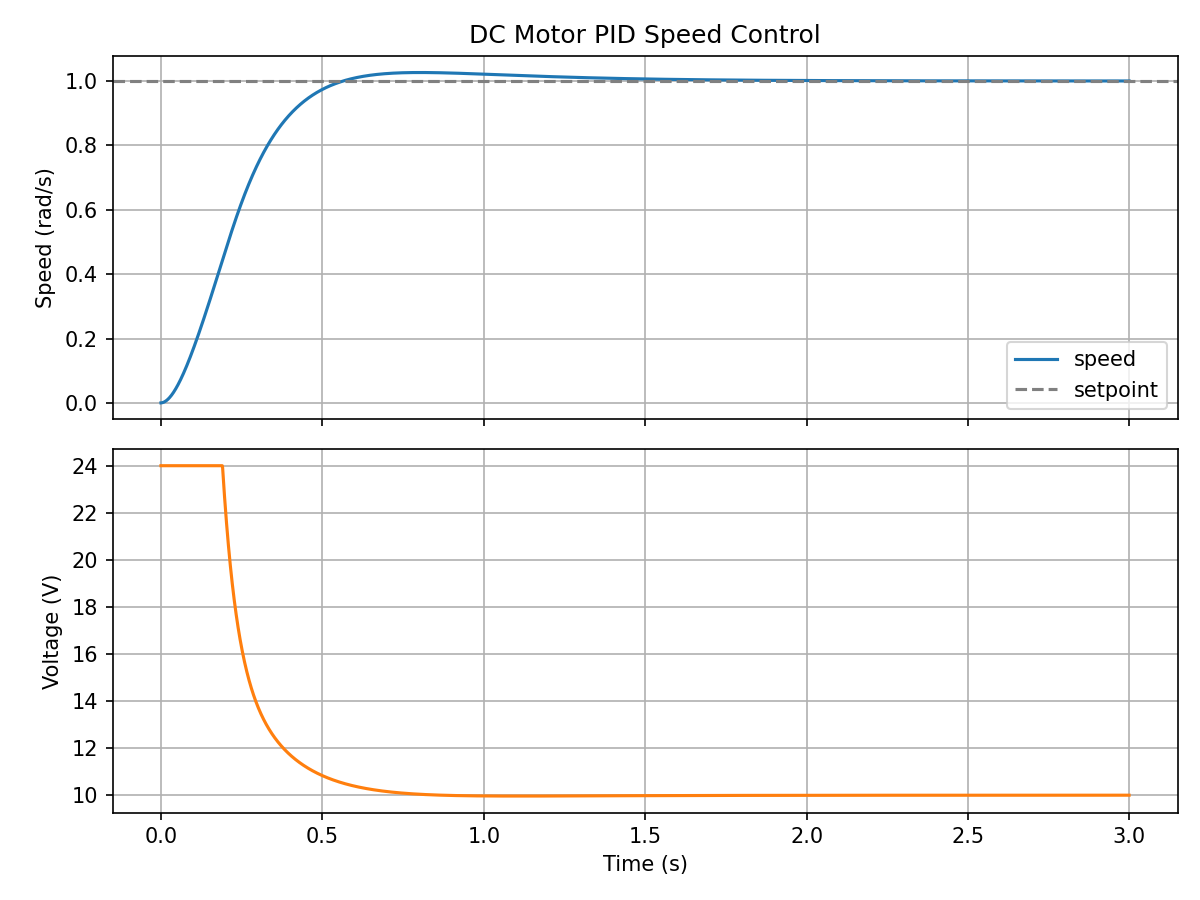
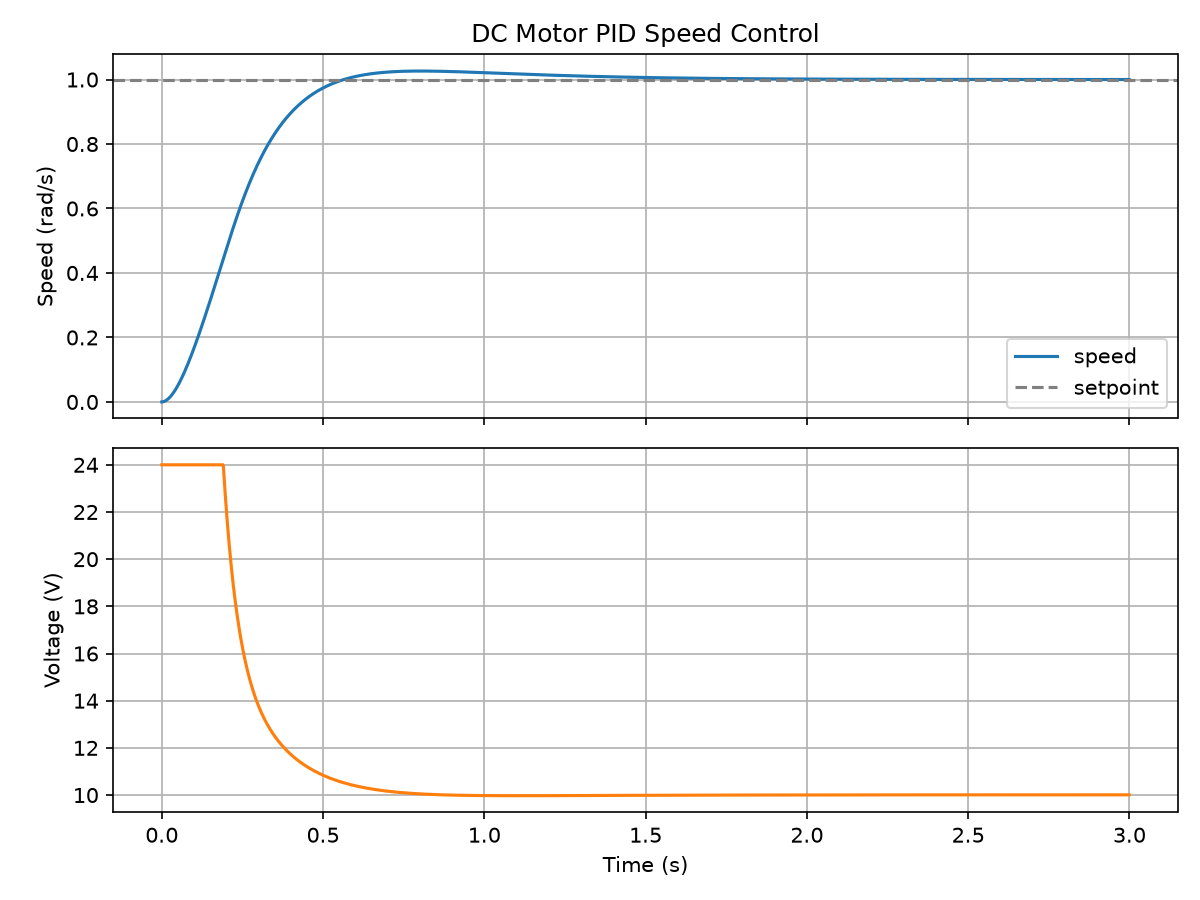
Add LQR controller with integral action and PID comparison

diff --git a/sim_compare.py b/sim_compare.py
@@ -1,0 +1,71 @@
+"""Compare PID and LQR speed control on the same motor."""
+import numpy as np
+import matplotlib.pyplot as plt
+
+from src.motor_model import MotorParams, state_space
+from src.pid import PID
+from src.lqr import LQR, augment_with_integrator, lqr_gain
+from sim_pid import rk4_step, DT, T_END, SETPOINT
+
+
+def run(controller, p, uses_full_state):
+    t = np.arange(0, T_END, DT)
+    x = np.zeros(2)
+    w_log, u_log = [], []
+    for _ in t:
+        if uses_full_state:
+            u = controller.update(SETPOINT, x)
+        else:
+            u = controller.update(SETPOINT, x[0])
+        x = rk4_step(x, u, p, DT)
+        w_log.append(x[0])
+        u_log.append(u)
+    return t, np.array(w_log), np.array(u_log)
+
+
+def metrics(t, w):
+    rise = t[np.argmax(w >= 0.9 * SETPOINT)]
+    overshoot = max(0.0, (w.max() - SETPOINT) / SETPOINT * 100)
+    return rise, overshoot
+
+
+def main():
+    p = MotorParams()
+
+    pid = PID(kp=100, ki=200, kd=10, dt=DT, u_min=-p.V_max, u_max=p.V_max)
+
+    A, B, C = state_space(p)
+    A_aug, B_aug = augment_with_integrator(A, B, C)
+    Q = np.diag([1.0, 0.0, 1.0])   # [speed, current, integral error]
+    R = np.array([[1.0]])          # cost on voltage
+    K = lqr_gain(A_aug, B_aug, Q, R)
+    lqr = LQR(K, DT, -p.V_max, p.V_max)
+
+    t, w_pid, u_pid = run(pid, p, uses_full_state=False)
+    _, w_lqr, u_lqr = run(lqr, p, uses_full_state=True)
+
+    for name, w in [("PID", w_pid), ("LQR", w_lqr)]:
+        rise, os_ = metrics(t, w)
+        print(f"{name}: rise time {rise:.3f} s, overshoot {os_:.1f}%")
+
+    fig, (ax1, ax2) = plt.subplots(2, 1, sharex=True, figsize=(8, 6))
+    ax1.plot(t, w_pid, label="PID")
+    ax1.plot(t, w_lqr, label="LQR")
+    ax1.axhline(SETPOINT, ls="--", c="gray", label="setpoint")
+    ax1.set_ylabel("Speed (rad/s)")
+    ax1.set_title("PID vs. LQR Speed Control")
+    ax1.legend()
+    ax1.grid(True)
+    ax2.plot(t, u_pid, label="PID")
+    ax2.plot(t, u_lqr, label="LQR")
+    ax2.set_ylabel("Voltage (V)")
+    ax2.set_xlabel("Time (s)")
+    ax2.legend()
+    ax2.grid(True)
+    fig.tight_layout()
+    fig.savefig("results/pid_vs_lqr.png", dpi=150)
+    print("Saved results/pid_vs_lqr.png")
+
+
+if __name__ == "__main__":
+    main()

diff --git a/src/lqr.py b/src/lqr.py
@@ -1,0 +1,42 @@
+"""LQR speed controller with integral action."""
+import numpy as np
+from scipy.linalg import solve_continuous_are
+
+
+def augment_with_integrator(A, B, C):
+    """Add an integral-of-error state: xi_dot = r - y."""
+    n = A.shape[0]
+    A_aug = np.block([[A, np.zeros((n, 1))],
+                      [-C, np.zeros((1, 1))]])
+    B_aug = np.vstack([B, [[0.0]]])
+    return A_aug, B_aug
+
+
+def is_controllable(A, B):
+    n = A.shape[0]
+    ctrb = np.hstack([np.linalg.matrix_power(A, k) @ B for k in range(n)])
+    return np.linalg.matrix_rank(ctrb) == n
+
+
+def lqr_gain(A, B, Q, R):
+    """Solve the continuous algebraic Riccati equation and return K."""
+    P = solve_continuous_are(A, B, Q, R)
+    return np.linalg.solve(R, B.T @ P)
+
+class LQR:
+    def __init__(self, K, dt, u_min, u_max):
+        self.K = K
+        self.dt = dt
+        self.u_min, self.u_max = u_min, u_max
+        self.xi = 0.0  # integral of speed error
+
+    def update(self, setpoint, x):
+        """x = [omega, current] (full-state feedback)."""
+        z = np.array([x[0], x[1], self.xi])
+        u_unsat = float(-self.K[0] @ z)
+        u = min(max(u_unsat, self.u_min), self.u_max)
+
+        # Anti-windup, same idea as the PID
+        if u == u_unsat:
+            self.xi += (setpoint - x[0]) * self.dt
+        return u

diff --git a/check_lqr.py b/check_lqr.py
@@ -1,0 +1,15 @@
+import numpy as np
+from src.motor_model import MotorParams, state_space
+from src.lqr import augment_with_integrator, is_controllable, lqr_gain
+
+p = MotorParams()
+A, B, C = state_space(p)
+A_aug, B_aug = augment_with_integrator(A, B, C)
+
+print("Controllable:", is_controllable(A_aug, B_aug))
+
+Q = np.diag([1.0, 0.0, 1.0])
+R = np.array([[1.0]])
+K = lqr_gain(A_aug, B_aug, Q, R)
+print("K =", K.round(3))
+print("Closed-loop poles:", np.linalg.eigvals(A_aug - B_aug @ K).round(3))
